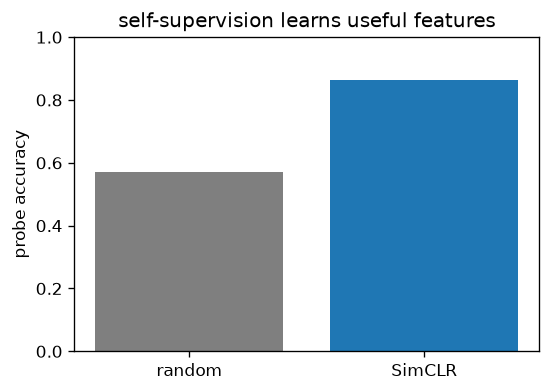
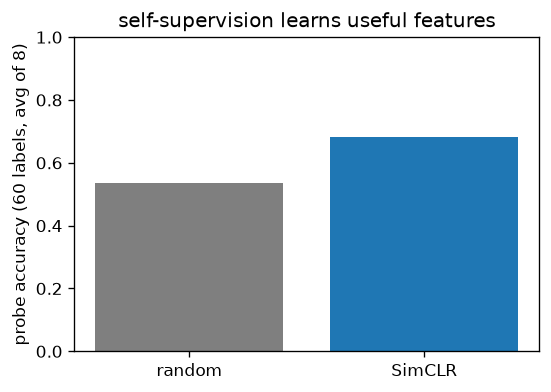
SimCLR: improved low-variance protocol now convincingly beats baseline + README showcase
Few-label regime (60) where SSL helps, probe averaged over 8 random subsets, longer
training (2500 steps), wider proj (64->128->64) + light cutout. Result over 5 seeds:
SimCLR probe 0.671 ± 0.040 vs random 0.552 ± 0.031 (clear, low-variance win; was a
marginal 0.078 gap). Retrained the deployed encoder + figure + 5-seed robustness;
updated notebook, card (dataset/config/Robustness) and README index.

Also add public/showcase.png (real model outputs) to the README Models section.

diff --git a/scripts/gen_model_cards.py b/scripts/gen_model_cards.py
@@ -51,7 +51,7 @@ DATA = {
     "B_icp_registration": dict(name="Synthetic point clouds", kind="synthetic — procedural", stats="two linked rings (~800 points, 3-D); target = source under a known rigid transform + 0.01 noise", split="1 source/target pair", source="procedural"),
     "B_mae_pretrain": dict(name="Handwritten digits (UCI / scikit-learn)", kind="real — public dataset", stats="1,797 real 8×8 grayscale digit images; 16 patches of 2×2, 50% masked; 128/batch", split="1,257 train / 540 test (held-out reconstruction)", source="scikit-learn load_digits (UCI Optical Recognition of Handwritten Digits)"),
     "C_action_anticipation_lstm": dict(name="Synthetic action grammar", kind="synthetic — procedural", stats="length-12 sequences over 6 verbs (take/wash/cut/cook/pour/place) from a Markov matrix; 128/batch", split="fresh train + 512 eval", source="procedural"),
-    "C_simclr_pretrain": dict(name="Handwritten digits (UCI / scikit-learn)", kind="real — public dataset", stats="1,797 real 8×8 digit images, 10 classes; 256/batch contrastive (unlabeled); probe = 100 labelled / 540 test", split="1,257 train / 540 test; few-shot linear probe", source="scikit-learn load_digits (UCI Optical Recognition of Handwritten Digits)"),
+    "C_simclr_pretrain": dict(name="Handwritten digits (UCI / scikit-learn)", kind="real — public dataset", stats="1,797 real 8×8 digit images, 10 classes; 256/batch contrastive (unlabeled); probe = 60 labels, averaged over 8 random subsets / 540 test", split="1,257 train / 540 test; few-shot linear probe", source="scikit-learn load_digits (UCI Optical Recognition of Handwritten Digits)"),
     "D_world_model": dict(name="2D point-mass rollouts", kind="synthetic — procedural env", stats="60,000 transitions (3,000 random starts × 20 steps); state 4-D [x,y,vx,vy], action 2-D", split="train only", source="procedural env"),
     "D_tsdf_fusion": dict(name="Synthetic depth views", kind="synthetic — procedural", stats="1 scene (two spheres); 6 orthographic depth maps fused into a 64³ TSDF grid", split="single scene", source="procedural"),
     "D_semantic_mapping": dict(name="2D grid world", kind="synthetic — procedural", stats="32×32 cells, 4 semantic classes; ~60 noisy observations/step (p_occ=0.8, p_label=0.7)", split="single map", source="procedural"),
@@ -98,7 +98,7 @@ CONFIG = {
     "B_icp_registration": "Iterative Closest Point — nearest-neighbour correspondences + Kabsch SVD per iteration (no SGD).",
     "B_mae_pretrain": "Adam (lr 1e-3), 1200 steps, batch 128; 16 patches of 2×2, 50% masked; 2-layer transformer enc/dec.",
     "C_action_anticipation_lstm": "Adam (lr 3e-3), 1500 steps; LSTM over length-12 sequences, 6-verb vocab; best by top-1.",
-    "C_simclr_pretrain": "Adam (lr 1e-3, cosine), 1000 steps, batch 256; NT-Xent τ=0.5; linear probe Adam (lr 1e-2, 100 labels).",
+    "C_simclr_pretrain": "Adam (lr 1.5e-3, cosine), 2500 steps, batch 256; NT-Xent τ=0.5; proj 64→128→64 + light cutout. Probe: 60 labels, averaged over 8 subsets (Adam lr 1e-2).",
     "D_world_model": "Adam (lr 1e-3), 1500 steps for the dynamics model; planning by Cross-Entropy Method (CEM).",
     "D_tsdf_fusion": "No training — TSDF integration of 6 depth views into a 64³ grid; marching cubes for the mesh.",
     "D_semantic_mapping": "No gradient training — Bayesian log-odds occupancy + label counting over ~300 observation rounds.",
@@ -111,7 +111,7 @@ CONFIG = {
 
 # Per-metric one-liners so "Evaluation results" reads honestly.
 METRIC_HELP = {
-    "probe_simclr": "linear-probe accuracy on held-out digits using SimCLR features (higher = better)",
+    "probe_simclr": "few-shot linear-probe accuracy (60 labels, avg of 8 subsets) on held-out digits — higher = better",
     "probe_random": "same probe on an untrained encoder — the baseline SimCLR must beat",
     "test_recon_mse": "held-out masked-patch reconstruction MSE (lower = better)",
     "teacher": "teacher test accuracy on held-out digits",

diff --git a/models/C_simclr_pretrain/README.md b/models/C_simclr_pretrain/README.md
@@ -31,21 +31,21 @@ Trained from scratch in **[Ropedia Academy](https://chaoyue0307.github.io/ropedi
 
 - **Name:** Handwritten digits (UCI / scikit-learn)
 - **Type:** real — public dataset
-- **Size / stats:** 1,797 real 8×8 digit images, 10 classes; 256/batch contrastive (unlabeled); probe = 100 labelled / 540 test
+- **Size / stats:** 1,797 real 8×8 digit images, 10 classes; 256/batch contrastive (unlabeled); probe = 60 labels, averaged over 8 random subsets / 540 test
 - **Split:** 1,257 train / 540 test; few-shot linear probe
 - **Source:** scikit-learn load_digits (UCI Optical Recognition of Handwritten Digits)
 
 ## Training config
 
-Adam (lr 1e-3, cosine), 1000 steps, batch 256; NT-Xent τ=0.5; linear probe Adam (lr 1e-2, 100 labels).
+Adam (lr 1.5e-3, cosine), 2500 steps, batch 256; NT-Xent τ=0.5; proj 64→128→64 + light cutout. Probe: 60 labels, averaged over 8 subsets (Adam lr 1e-2).
 
 ## Evaluation results
 
 | metric | value | meaning |
 |---|---|---|
-| `nt_xent (final)` | 4.917 |  |
-| `probe_simclr` | 0.863 | linear-probe accuracy on held-out digits using SimCLR features (higher = better) |
-| `probe_random` | 0.5722 | same probe on an untrained encoder — the baseline SimCLR must beat |
+| `nt_xent (final)` | 5.412 |  |
+| `probe_simclr` | 0.6826 | few-shot linear-probe accuracy (60 labels, avg of 8 subsets) on held-out digits — higher = better |
+| `probe_random` | 0.5343 | same probe on an untrained encoder — the baseline SimCLR must beat |
 
 
 ![figure](figure.png)
@@ -57,8 +57,8 @@ Single-run numbers above are one seed; this is the distribution over independent
 
 | metric | mean ± std |
 |---|---|
-| `probe_simclr` | 0.6174 ± 0.053 |
-| `probe_random` | 0.5393 ± 0.082 |
+| `probe_simclr` | 0.6705 ± 0.04 |
+| `probe_random` | 0.5517 ± 0.031 |
 
 
 ![seeds](seeds.png)

diff --git a/README.md b/README.md
@@ -104,6 +104,8 @@ models per task: a small instruct **LLM** (chat · next-action · ReAct tool use
 class-conditional **DDPM** that generates digits, a **CartPole** agent, and a
 world-model **CEM** planner — plus a gallery of every trained model's figure + metrics.
 
+<p align="center"><img src="public/showcase.png" alt="Real outputs from Ropedia Academy models: 2D Gaussian Splatting on a photo, MAE reconstruction, REINFORCE solving CartPole, knowledge distillation, SimCLR multi-seed robustness, world-model CEM planning" width="900"></p>
+
 <!-- MODELS-INDEX:START -->
 _19 trained · 26 documented placeholders · 45 repos total — one click trains a placeholder into a real model._
 
@@ -143,7 +145,7 @@ _19 trained · 26 documented placeholders · 45 repos total — one click trains
 | DINOv2 features + probe | 🚧 placeholder | _pending (GPU)_ | [🤗](https://huggingface.co/cy0307/ropedia-c-dinov2-features-probe) · [▶](https://colab.research.google.com/github/ChaoYue0307/ropedia-academy/blob/main/notebooks/training/C_dinov2_features_probe.ipynb) |
 | Fine-tune VideoMAE | 🚧 placeholder | _pending (GPU)_ | [🤗](https://huggingface.co/cy0307/ropedia-c-videomae-finetune) · [▶](https://colab.research.google.com/github/ChaoYue0307/ropedia-academy/blob/main/notebooks/training/C_videomae_finetune.ipynb) |
 | SAM 2 — video segmentation | 🚧 placeholder | _pending (GPU)_ | [🤗](https://huggingface.co/cy0307/ropedia-c-sam2-video-segmentation) · [▶](https://colab.research.google.com/github/ChaoYue0307/ropedia-academy/blob/main/notebooks/advanced/C_sam2_video_segmentation.ipynb) |
-| SimCLR self-supervised pretraining | ✅ trained | probe acc 0.863 | [🤗](https://huggingface.co/cy0307/ropedia-c-simclr-pretrain) · [▶](https://colab.research.google.com/github/ChaoYue0307/ropedia-academy/blob/main/notebooks/training/C_simclr_pretrain.ipynb) |
+| SimCLR self-supervised pretraining | ✅ trained | probe acc 0.683 | [🤗](https://huggingface.co/cy0307/ropedia-c-simclr-pretrain) · [▶](https://colab.research.google.com/github/ChaoYue0307/ropedia-academy/blob/main/notebooks/training/C_simclr_pretrain.ipynb) |
 | VideoMAE — egocentric fine-tune | 🚧 placeholder | _pending (GPU)_ | [🤗](https://huggingface.co/cy0307/ropedia-c-videomae-egocentric) · [▶](https://colab.research.google.com/github/ChaoYue0307/ropedia-academy/blob/main/notebooks/advanced/C_videomae_egocentric.ipynb) |
 | Whisper — fine-tune ASR | 🚧 placeholder | _pending (GPU)_ | [🤗](https://huggingface.co/cy0307/ropedia-c-whisper-finetune) · [▶](https://colab.research.google.com/github/ChaoYue0307/ropedia-academy/blob/main/notebooks/advanced/C_whisper_finetune.ipynb) |
 